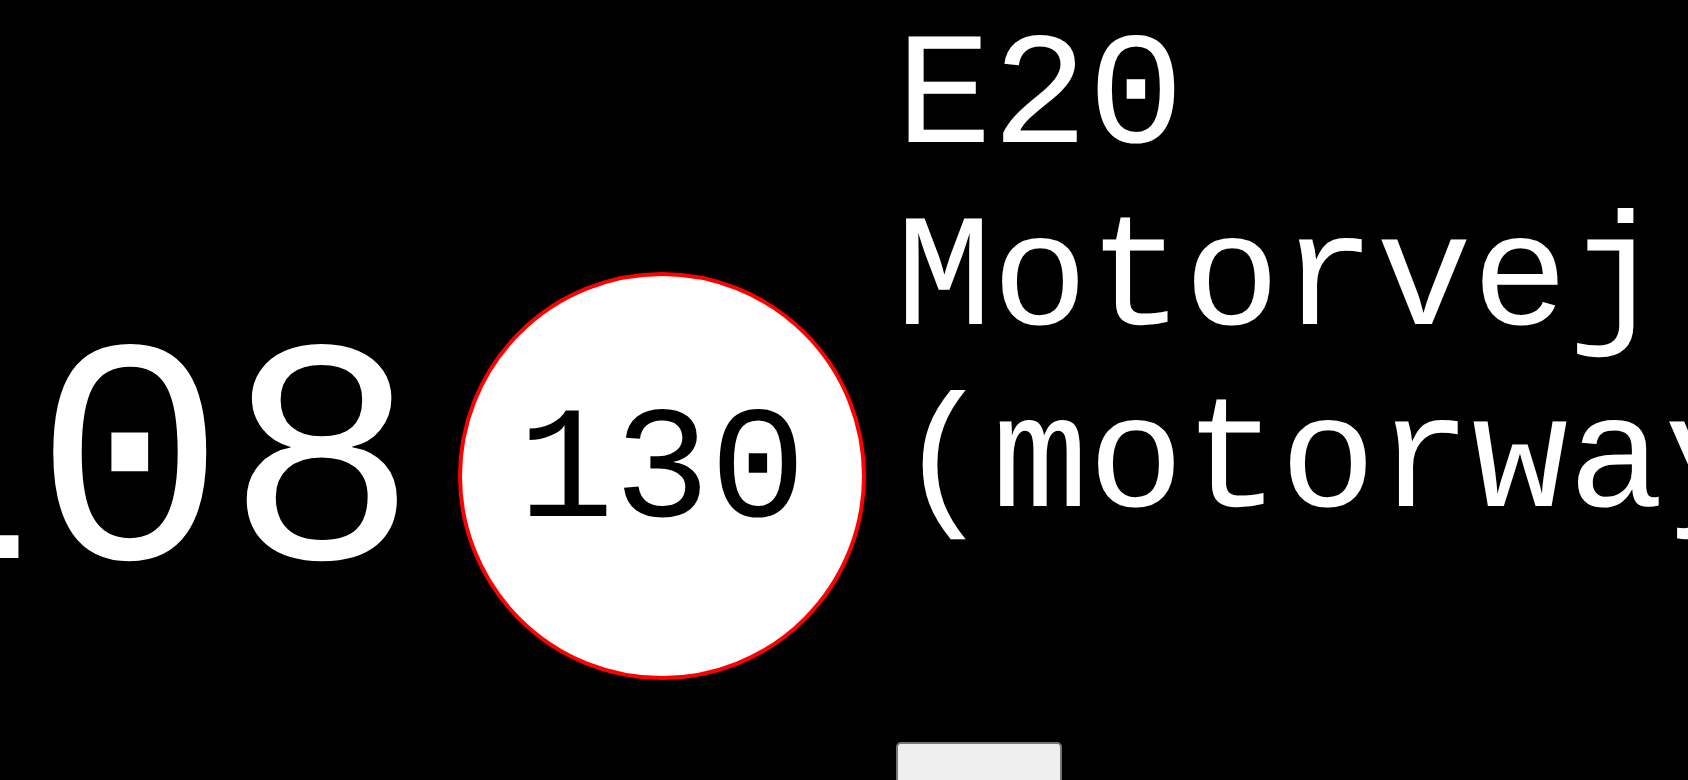
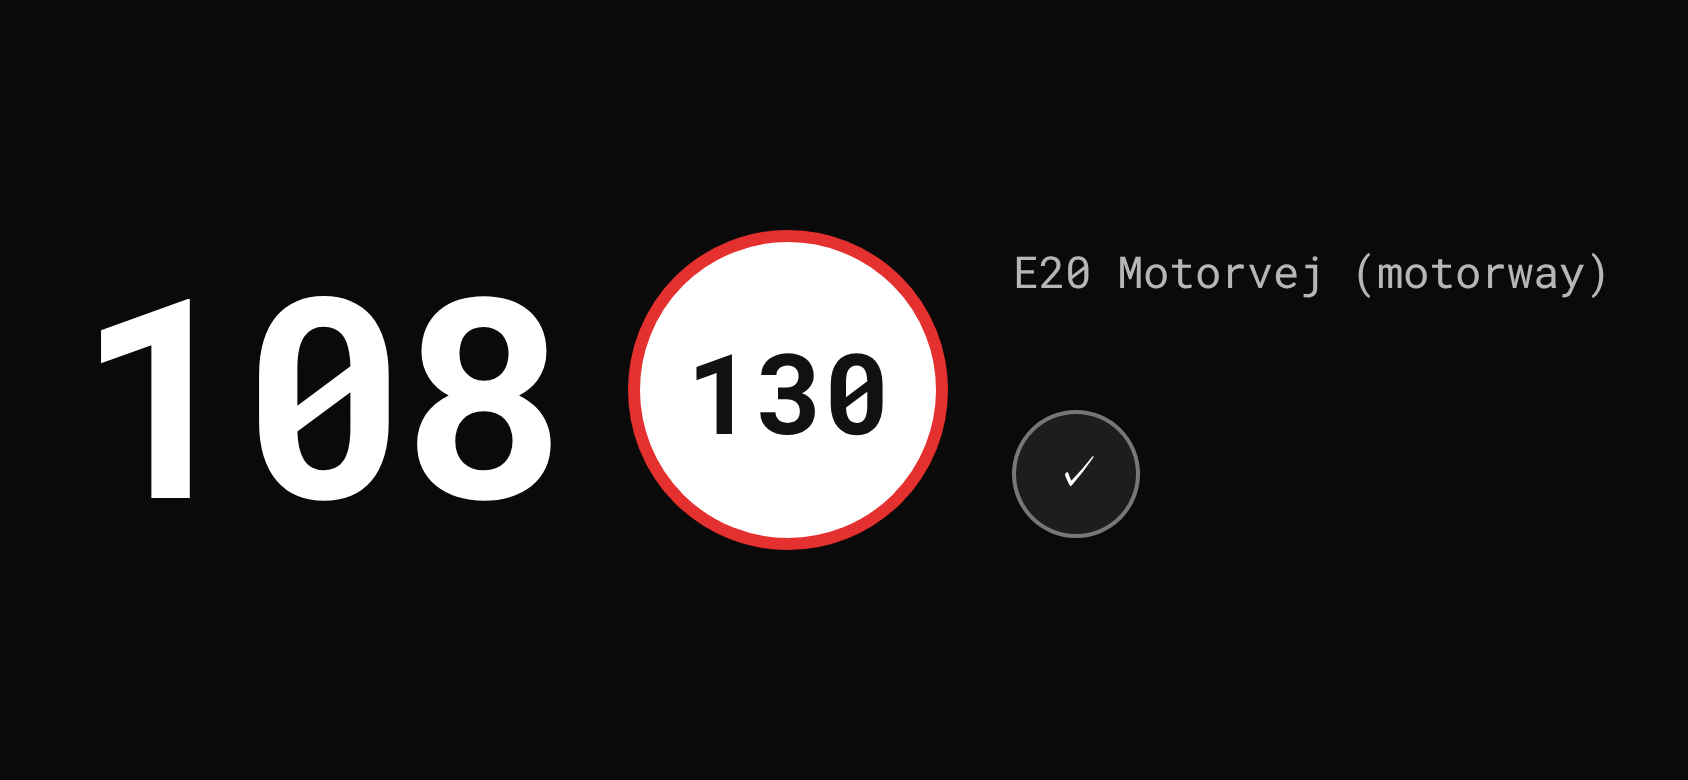
fix: clean CSS + proper screenshots
- Switch to Roboto Mono (clean zeros, great readability)
- Fix #roadinfo: clamp font size, ellipsis overflow (was overflowing at 5em)
- Fix #clickme: style as circle button with hover state
- Fix #speedlimit: clamp sizing for different screens
- Use 100dvh for correct mobile height
- Better landscape layout with padding
- Regenerate screenshots with networkidle wait + font load pause

Fixes screenshots showing mangled glyphs in README

diff --git a/css/style.css b/css/style.css
@@ -1,47 +1,94 @@
+@import url('https://fonts.googleapis.com/css2?family=Roboto+Mono:wght@400;700&display=swap');
+
+* {
+    box-sizing: border-box;
+}
+
 body {
     display: flex;
     flex-direction: column;
     align-items: center;
     justify-content: center;
-    height: 100%;
+    height: 100dvh;
     margin: 0;
+    padding: 16px;
     color: white;
-    background-color: black;
-    font-family: "Lucida Console", "Courier New", monospace;
+    background-color: #0a0a0a;
+    font-family: 'Roboto Mono', 'Courier New', monospace;
+    gap: 16px;
 }
 
+/* ── Speed ──────────────────────────────────────────────── */
 #speed {
-    font-size: 10em; /* Juster efter behov */
-    margin: 10px;
+    font-size: clamp(96px, 30vw, 160px);
+    font-weight: 700;
+    line-height: 1;
+    letter-spacing: -0.02em;
+    margin: 0;
 }
 
-#roadinfo {
-    font-size: 5em; /* Juster efter behov */
-    margin: 5px;
-}
-
-#clickme {
-    font-size: 5em; /* Juster efter behov */
-    margin: 5px;
-}
-
+/* ── Speed limit sign ───────────────────────────────────── */
 #speedlimit {
-    border: 2px solid red;
+    border: 6px solid #e53030;
     border-radius: 50%;
     background-color: white;
-    color: black;
-    width: 200px; /* Juster efter behov */
-    height: 200px; /* Juster efter behov */
+    color: #111;
+    width: clamp(100px, 28vw, 160px);
+    height: clamp(100px, 28vw, 160px);
     display: flex;
     align-items: center;
     justify-content: center;
-    position: relative;
-    margin: 10px;
-    font-size: 5em; /* Juster efter behov */
+    font-size: clamp(28px, 8vw, 56px);
+    font-weight: 700;
+    flex-shrink: 0;
 }
 
+/* ── Road info ──────────────────────────────────────────── */
+#roadinfo {
+    font-size: clamp(14px, 4vw, 22px);
+    font-weight: 400;
+    text-align: center;
+    max-width: 90vw;
+    overflow: hidden;
+    white-space: nowrap;
+    text-overflow: ellipsis;
+    color: rgba(255, 255, 255, 0.7);
+    min-height: 1.4em;
+}
+
+/* ── Start button ───────────────────────────────────────── */
+#clickme {
+    width: 64px;
+    height: 64px;
+    border-radius: 50%;
+    border: 2px solid rgba(255, 255, 255, 0.4);
+    background: rgba(255, 255, 255, 0.08);
+    color: white;
+    font-size: 22px;
+    cursor: pointer;
+    display: flex;
+    align-items: center;
+    justify-content: center;
+    transition: background 0.2s, border-color 0.2s;
+    -webkit-tap-highlight-color: transparent;
+    padding: 0;
+}
+
+#clickme:hover,
+#clickme:active {
+    background: rgba(255, 255, 255, 0.18);
+    border-color: rgba(255, 255, 255, 0.7);
+}
+
+/* ── Landscape ──────────────────────────────────────────── */
 @media screen and (orientation: landscape) {
     body {
         flex-direction: row;
+        gap: 32px;
+        padding: 24px 40px;
+    }
+
+    #speed {
+        font-size: clamp(80px, 18vw, 140px);
     }
 }

diff --git a/capture-screenshots.py b/capture-screenshots.py
@@ -20,7 +20,7 @@ class QuietHandler(SimpleHTTPRequestHandler):
     def __init__(self, *args, **kwargs):
         super().__init__(*args, directory=str(ROOT), **kwargs)
     def log_message(self, *args):
-        pass  # silence request logs
+        pass
 
 def start_server():
     server = HTTPServer(("localhost", PORT), QuietHandler)
@@ -44,9 +44,9 @@ def inject_state(page, speed, limit, road, started):
 
 # ─── Scenarios ────────────────────────────────────────────────────────────────
 SCENARIOS = [
-    dict(name="portrait-idle",     w=390, h=844, speed="00",  limit="000", road="",                        started=False),
-    dict(name="portrait-driving",  w=390, h=844, speed="72",  limit="80",  road="Kongevej (tertiary)",      started=True),
-    dict(name="landscape-driving", w=844, h=390, speed="108", limit="130", road="E20 Motorvej (motorway)", started=True),
+    dict(name="portrait-idle",     w=390, h=844, speed="00",  limit="000", road="",                          started=False),
+    dict(name="portrait-driving",  w=390, h=844, speed="72",  limit="80",  road="Kongevej (tertiary)",        started=True),
+    dict(name="landscape-driving", w=844, h=390, speed="108", limit="130", road="E20 Motorvej (motorway)",    started=True),
 ]
 
 # ─── Main ─────────────────────────────────────────────────────────────────────
@@ -64,19 +64,22 @@ def main():
                 device_scale_factor=2,
             )
 
-            # Stub axios so it doesn't block on CDN
-            ctx.route("**unpkg.com**", lambda route: route.fulfill(
+            # Stub axios so network calls don't hang
+            ctx.route("**/unpkg.com/**", lambda route: route.fulfill(
                 status=200,
                 content_type="application/javascript",
                 body="window.axios = { get: () => Promise.resolve({ data: { elements: [] } }) };"
             ))
+            # Allow Google Fonts through (needed for font rendering)
+            # Everything else blocked by default in Playwright - fonts are fetched via CSS @import
 
             page = ctx.new_page()
-            page.goto(f"http://localhost:{PORT}/", wait_until="domcontentloaded")
-            page.wait_for_timeout(400)
+            page.goto(f"http://localhost:{PORT}/", wait_until="networkidle")
+            # Wait for fonts to load
+            page.wait_for_timeout(800)
 
             inject_state(page, s["speed"], s["limit"], s["road"], s["started"])
-            page.wait_for_timeout(150)
+            page.wait_for_timeout(200)
 
             out_path = OUT / f"{s['name']}.png"
             page.screenshot(path=str(out_path))